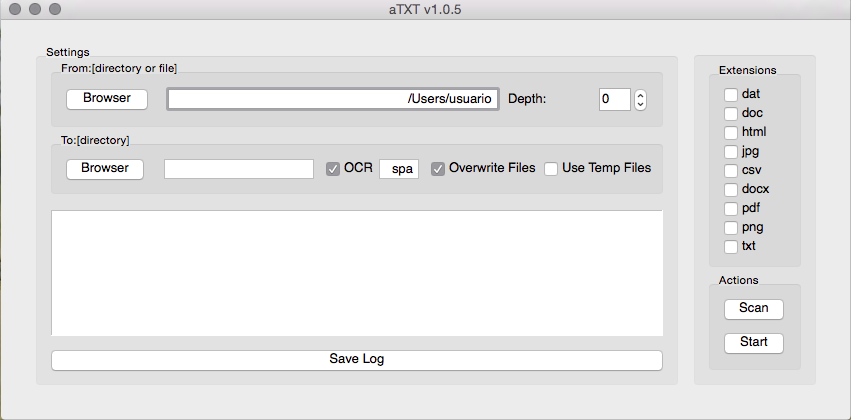
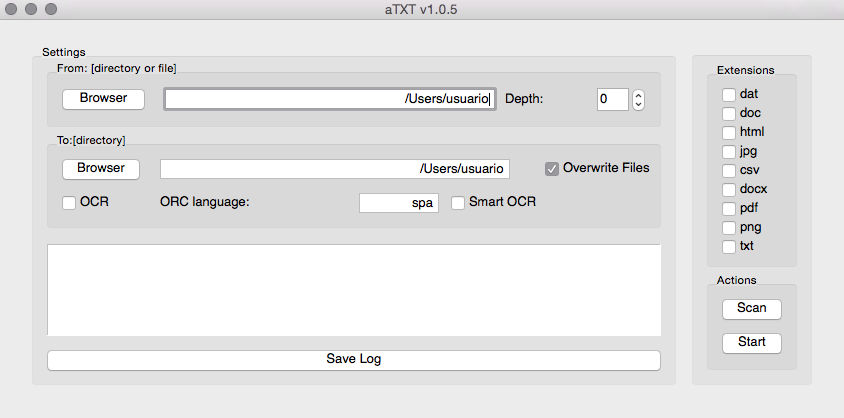
smart ocr added and fix logger, make_dir, window.py

diff --git a/setup.py b/setup.py
@@ -25,7 +25,7 @@ def read(*names, **kwargs):
 
 setup(
     name='aTXT',
-    version='1.0.5.4',
+    version='1.0.5.5',
     license='BSD',
     description='data mining tool for extract text for files',
     long_description='%s\n%s' % (
